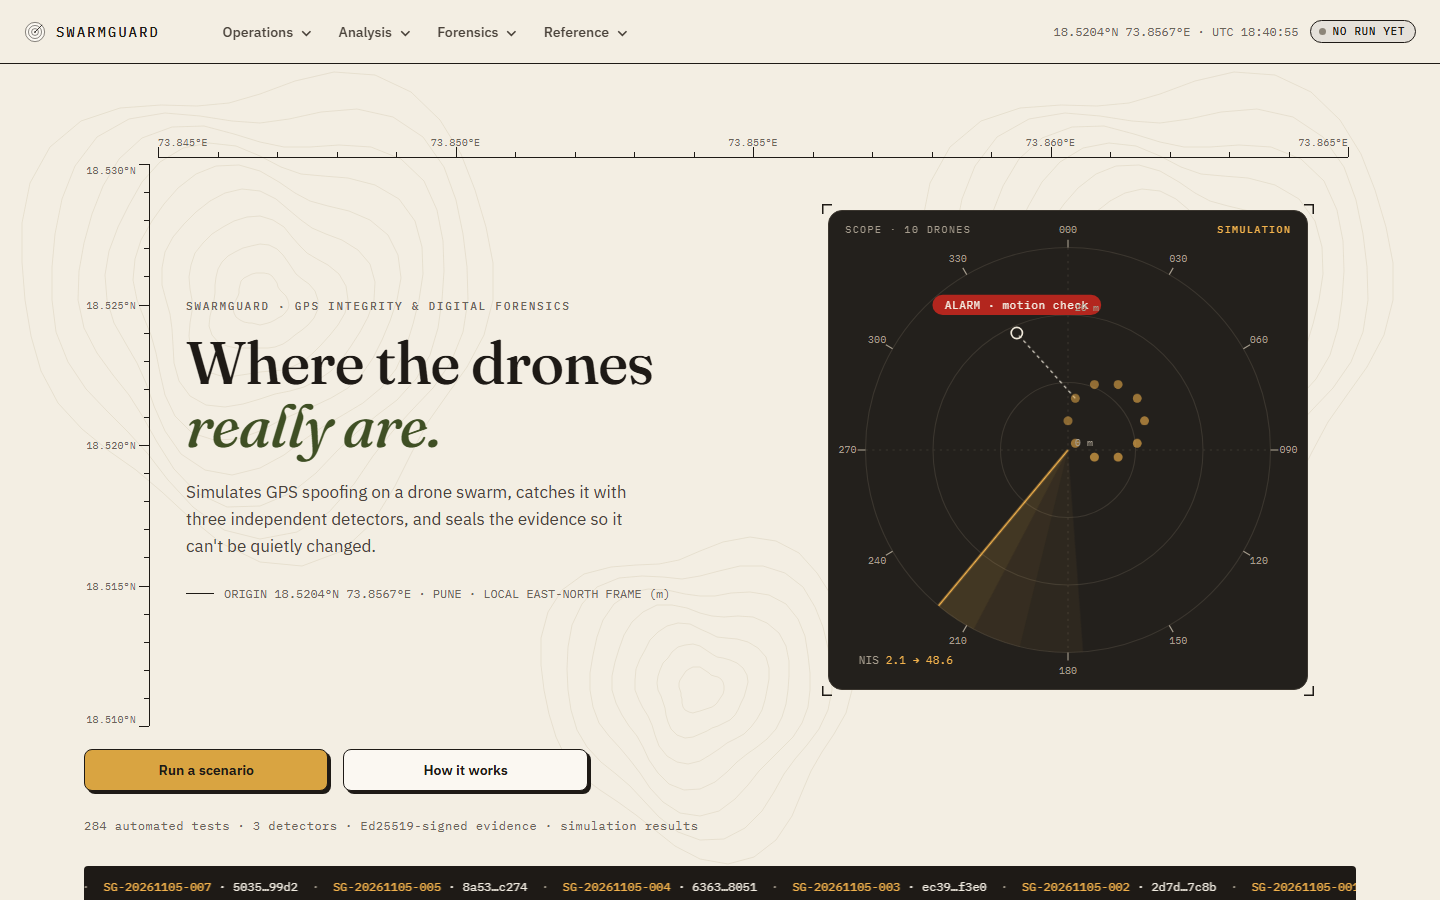
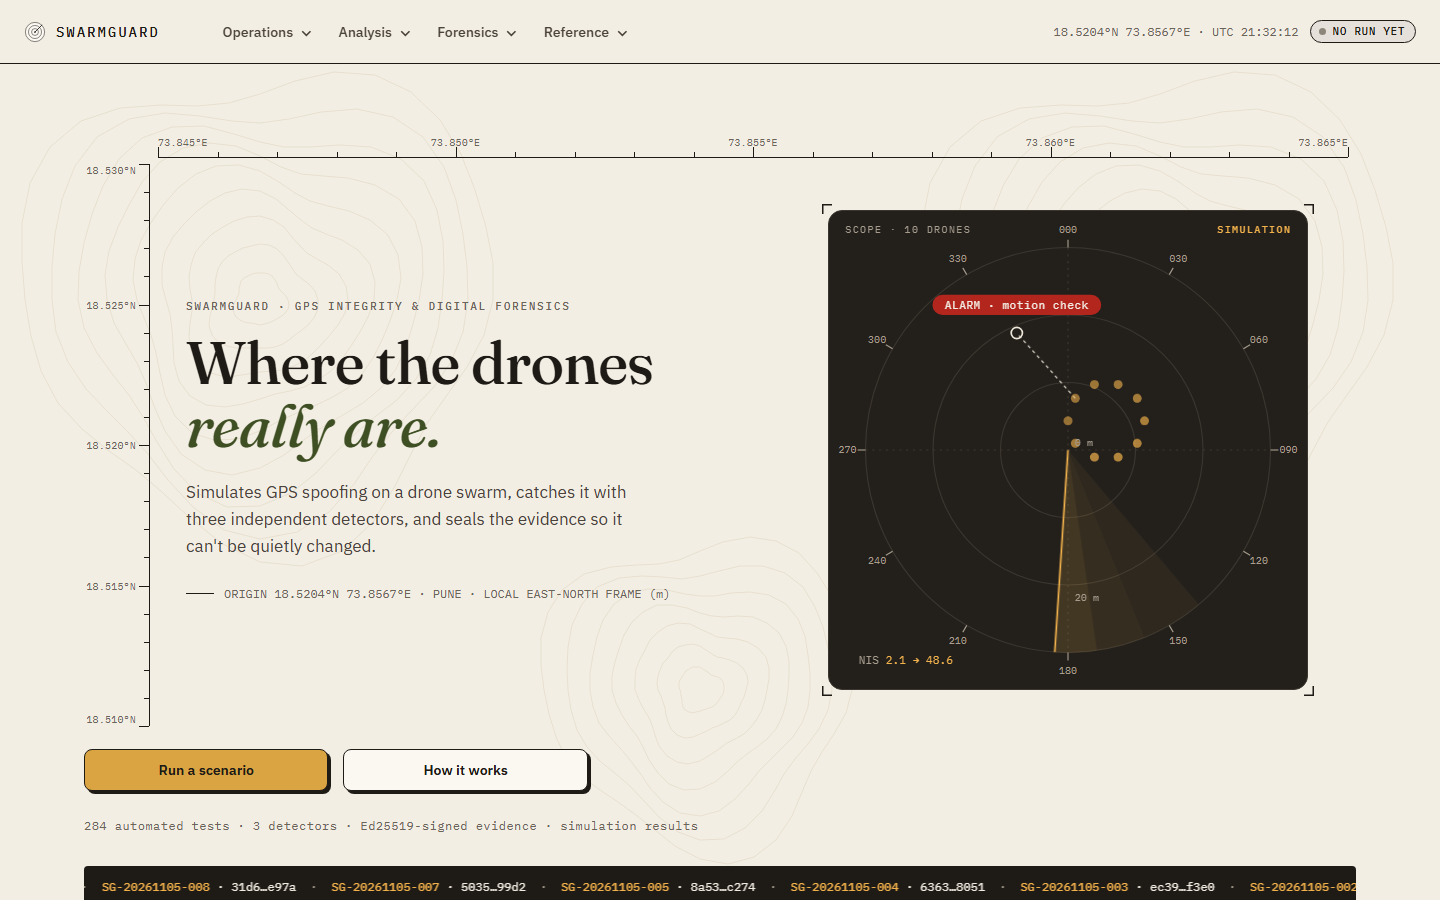
Phase 7: keep the hero's 20 m ring label clear of the ALARM pill; refresh screenshots

diff --git a/assets/hero.html b/assets/hero.html
@@ -210,7 +210,7 @@ svg.scope { width: 100%; height: 100%; display: block; overflow: visible; }
         __BLIPS__
         __EVENT__
         <text class="centre-label" x="6" y="-4">0 m</text>
-        <text class="centre-label" x="6" y="-124">20 m</text>
+        <text class="centre-label" x="6" y="134">20 m</text>
         <text class="readout" x="-186" y="190">NIS <tspan class="hot">2.1</tspan><tspan>__NIS_HOT__</tspan></text>
       </svg>
     </div>
